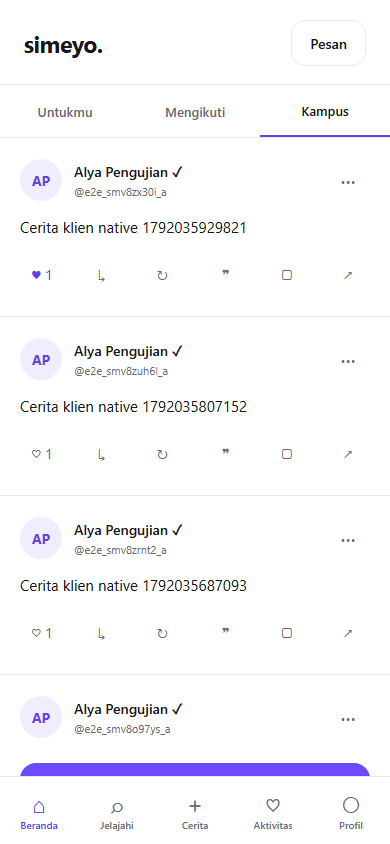
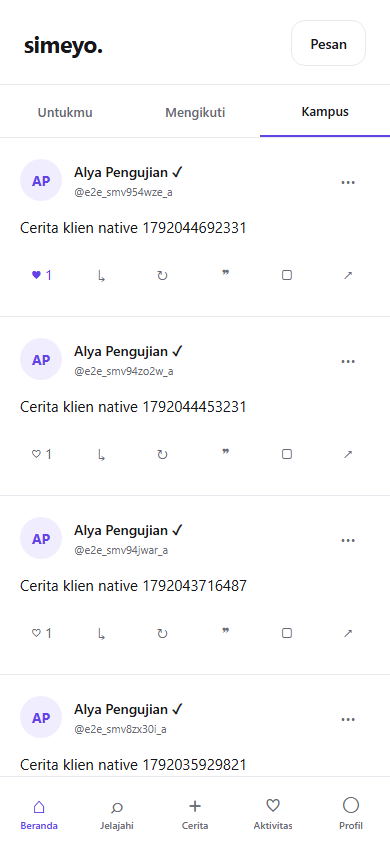
Record Android APK and private mobile messaging acceptance

diff --git a/apps/web/mobile-tests/native-client.spec.ts b/apps/web/mobile-tests/native-client.spec.ts
@@ -6,8 +6,8 @@ const root=path.resolve(__dirname,'../../..');
 const password=readFileSync(path.join(root,'apps/api/.env'),'utf8').match(/^DEMO_PASSWORD=(.+)$/m)?.[1].trim();
 function fixture(){return JSON.parse(execFileSync('php',['-d','extension=pdo_pgsql',path.join(root,'infrastructure/scripts/e2e-social-fixture.php'),Date.now().toString(36)],{cwd:root,encoding:'utf8'}));}
 async function login(page:Page,email:string){await page.goto('/login');await page.getByLabel('Email',{exact:true}).fill(email);await page.getByLabel('Kata sandi',{exact:true}).fill(password!);await page.getByRole('button',{name:'Masuk',exact:true}).click();await expect(page.getByRole('tab',{name:'Beranda',exact:true})).toBeVisible();}
-test('Expo components use scoped API tokens for persisted posts, profiles and theme',async({page,browser})=>{
- const users=fixture();const failures:string[]=[];page.on('pageerror',error=>failures.push(error.message));
+test('Expo components persist posts, profiles and messages with private realtime and theme',async({page,browser})=>{
+ const users=fixture();const failures:string[]=[];const frames:string[]=[];page.on('pageerror',error=>failures.push(error.message));page.on('websocket',socket=>socket.on('framereceived',event=>frames.push(String(event.payload))));
  await login(page,users.a.email);
  await page.getByRole('tab',{name:'Cerita',exact:true}).click();const body=`Cerita klien native ${Date.now()}`;await page.getByLabel('Tulis cerita',{exact:true}).fill(body);
  const posted=page.waitForResponse(r=>r.url().endsWith('/api/v1/posts')&&r.request().method()==='POST'&&r.status()===201);await page.getByRole('button',{name:'Bagikan',exact:true}).click();const response=await posted;const post=(await response.json()).data;
@@ -15,10 +15,13 @@ test('Expo components use scoped API tokens for persisted posts, profiles and th
  const card=page.getByTestId(`post-${post.id}`);const liked=page.waitForResponse(r=>r.url().endsWith(`/posts/${post.id}/interactions/like`)&&r.request().method()==='PUT'&&r.status()===200);await card.getByRole('button',{name:'Sukai cerita',exact:true}).click();expect((await (await liked).json()).data.liked).toBe(true);await expect(card.getByRole('button',{name:'Sukai cerita',exact:true})).toContainText('♥ 1');
  await page.screenshot({path:path.join(root,'docs/testing/screenshots/native-feed-mobile.png'),fullPage:true});
  await page.getByRole('tab',{name:'Profil',exact:true}).click();await page.getByRole('button',{name:'Ubah profil',exact:true}).click();const bio=`Bio native ${Date.now()}`;await page.getByLabel('Bio',{exact:true}).fill(bio);const saved=page.waitForResponse(r=>r.url().endsWith('/api/v1/me')&&r.request().method()==='PATCH'&&r.status()===200);await page.getByRole('button',{name:'Simpan profil',exact:true}).click();await saved;await expect(page.getByText(bio,{exact:true})).toBeVisible();
- await page.getByRole('button',{name:'Pengaturan',exact:true}).click();await page.getByRole('radio',{name:'Gelap',exact:true}).click();await page.screenshot({path:path.join(root,'docs/testing/screenshots/native-settings-dark.png'),fullPage:true});
+ await page.getByRole('button',{name:'Pengaturan',exact:true}).click();await page.getByRole('radio',{name:'Gelap',exact:true}).click();await expect(page.getByRole('radio',{name:/Anggota kampus/})).toBeVisible();const preference=page.waitForResponse(r=>r.url().endsWith('/communication-preferences')&&r.request().method()==='PATCH'&&r.status()===200);await page.getByRole('radio',{name:/Anggota kampus/}).click();await preference;await page.screenshot({path:path.join(root,'docs/testing/screenshots/native-settings-dark.png'),fullPage:true});
  const observer=await browser.newContext({viewport:{width:390,height:844}});const second=await observer.newPage();await login(second,users.b.email);
- await second.getByRole('tab',{name:'Jelajahi',exact:true}).click();await second.getByRole('button',{name:'Temukan teman',exact:true}).click();await second.getByLabel('Cari nama atau username',{exact:true}).fill(users.a.username);await second.getByRole('button',{name:'Cari pengguna',exact:true}).click();await second.getByRole('link',{name:`Profil @${users.a.username}`,exact:true}).click();await expect(second.getByText(bio,{exact:true})).toBeVisible();
+ await second.getByRole('tab',{name:'Jelajahi',exact:true}).click();await second.getByRole('button',{name:'Temukan teman',exact:true}).click();await second.getByLabel('Cari nama atau username',{exact:true}).fill(users.a.username);const searchResult=second.waitForResponse(r=>new URL(r.url()).pathname.endsWith('/people')&&new URL(r.url()).searchParams.get('q')===users.a.username);await second.getByRole('button',{name:'Cari pengguna',exact:true}).click();const found=await searchResult;expect(found.status()).toBe(200);expect((await found.json()).data.some((user:{username:string})=>user.username===users.a.username)).toBe(true);await second.getByRole('link',{name:`Profil @${users.a.username}`,exact:true}).click();await expect(second.getByText(bio,{exact:true})).toBeVisible();
  const authorization=response.request().headers()['authorization'];expect(authorization).toMatch(/^Bearer /);
  const durable=await second.request.get(`http://localhost:8000/api/v1/posts/${post.id}`,{headers:{Authorization:authorization}});expect(durable.status()).toBe(200);expect((await durable.json()).data.body).toBe(body);
+ await second.getByRole('button',{name:'Pesan',exact:true}).click();const message=`Pesan native tersimpan ${Date.now()}`;await second.getByLabel('Tulis pesan',{exact:true}).fill(message);const sent=second.waitForResponse(r=>/\/conversations\/\d+\/messages$/.test(r.url())&&r.request().method()==='POST'&&r.status()===201);await second.getByRole('button',{name:'Kirim pesan',exact:true}).click();await sent;await expect(second.getByText(message,{exact:true})).toBeVisible();
+ await expect.poll(()=>frames.some(raw=>raw.includes('activity.changed')),{timeout:30000}).toBe(true);const event=frames.map(raw=>JSON.parse(raw)).find(packet=>packet.event==='activity.changed');expect(typeof event.data==='string'?JSON.parse(event.data):event.data).toEqual({refresh:true});expect(JSON.stringify(event)).not.toContain(message);
+ await page.getByRole('link',{name:'(tabs), back',exact:true}).click();await page.getByRole('tab',{name:'Beranda',exact:true}).click();await page.getByRole('button',{name:'Pesan',exact:true}).click();await page.getByText('Bima Pengujian',{exact:true}).click();await expect(page.getByText(message,{exact:true})).toBeVisible();const read=page.waitForResponse(r=>/\/conversations\/\d+\/read$/.test(r.url())&&r.request().method()==='PUT'&&r.status()===204);await page.getByRole('button',{name:'Tandai dibaca',exact:true}).click();await read;await page.screenshot({path:path.join(root,'docs/testing/screenshots/native-messages-mobile.png'),fullPage:true});
  expect(failures).toEqual([]);await observer.close();
 });

diff --git a/PROGRESS.md b/PROGRESS.md
@@ -38,8 +38,8 @@ Campus approval, institution boundaries, private audiences/community membership,
 - Native local PostgreSQL, Laravel, Reverb and queue-worker round trips were tested. Portable Compose v5.6.0 validates all profiles, but Docker Engine pipe is absent. Container startup, Redis, MinIO and Meilisearch runtime remain BELUM DIUJI.
 - Web runtime-only npm audit reported zero advisories. Full web audit retains five high development-tooling entries in an upstream unpatched braces chain.
 - Expo-compatible updates and tested decoder/UUID overrides reduced mobile findings from 28 to 18 high entries. Remaining braces/node-forge tooling chains have no compatible published fix at last check. Do not downgrade SDK or report the audit clean.
-- Composer audit reported no advisories from cached metadata after live Packagist refresh timed out; this is not a fresh online audit.
-- Android SDK/JDK/adb were not detected. Expo Android prebuild passed; generated manifest/app ID/scheme checked. Gradle failed because JAVA_HOME/java are absent. No APK, installed Android app, iOS build, physical-device secure storage or push delivery acceptance yet. No cloud build/store submission.
+- An earlier Composer refresh timed out and used cached metadata. Latest `composer audit --locked` and `--locked --no-dev` both completed successfully with no advisories/abandoned packages and no fallback warning.
+- Android SDK/JDK/adb were not detected. Expo Android prebuild passed; generated manifest/app ID/scheme checked. Gradle failed because JAVA_HOME/java are absent. A later GitHub development APK build passed (see continuation evidence); installed Android/iOS, physical-device secure storage and push delivery acceptance remain pending. No EAS build/store submission.
 - Production SMTP, production object storage, real-device credentials, sustained load, media/key restore, monitoring and operator deployment acceptance remain release work. Isolated CI now verifies HTTPS/FPM/standalone, supervised workers and database restore; see the continuation evidence below.
 - New app IDs are `app.simeyo.mobile`, URI scheme `simeyo`, slug `simeyo`. Never rename/drop the existing PostgreSQL database or regenerate application keys to change branding.
 
@@ -54,11 +54,13 @@ Expo browser acceptance and repeat production PWA acceptance passed; actual nati
 - PostgreSQL recovery scripts now refuse backup overwrite, source/nonempty restore targets and corrupt archives. The isolated CI drill restored fictional application user/profile/Unicode data and migration history. Evidence: https://github.com/mhmdhabibrafi/simeyo/actions/runs/38688458732. No existing local/production database was reset.
 - Separate `docker-compose.production.yml` and release images implement PHP-FPM/OPcache, Next standalone, HTTPS Nginx, worker, Reverb and a private media volume. CI built and started them and verified TLS trust, database health, CSRF rejection, Secure/HttpOnly session cookies, login/logout, private headers, feed and public realtime configuration: https://github.com/mhmdhabibrafi/simeyo/actions/runs/38689026253. This does not verify Redis/MinIO/Meilisearch or a real public deployment.
 - Bounded HTTP samples: Windows local API 80 requests / 0 failed / 53.08 seconds; isolated HTTPS/FPM CI 80 requests / 0 failed / 1.62 seconds / endpoint p95 179–314 ms. Both used concurrency four and revoked only their newly created token. Datasets differ; neither is sustained production capacity acceptance. Actual JSON is in `docs/testing/results`; source CI run: https://github.com/mhmdhabibrafi/simeyo/actions/runs/38689917319.
-- Native activity now ignores cleaned-up/retained push responses and keeps stale WebSocket authorization/errors on their original connection. Privacy errors hide cached profiles, blocking clears queries and optimistic actions cancel competing feed/detail/Pulse refetches. Mobile type/lint and seven unit/dependency tests passed. Basic Expo browser regression passed again (1 test / 1.4 minutes); extended direct-message/realtime acceptance is currently being exercised.
+- Native activity now ignores cleaned-up/retained push responses and keeps stale WebSocket authorization/errors on their original connection. Privacy errors hide cached profiles, blocking clears queries and optimistic actions cancel competing feed/detail/Pulse refetches. Mobile type/lint and seven unit/dependency tests passed. Basic Expo browser regression passed again (1 test / 1.4 minutes); extended direct-message/realtime acceptance also passed (1 test / 1.5 minutes), proving persisted send/receive/read and private invalidation-only WebSocket frames. The new message screenshot was inspected.
 - Added `2026_10_15_320000_index_push_delivery`: owner-device, notification/device receipt and device-revocation lookup indexes. Applied additively to project-local PostgreSQL after validating the target; full SQLite and PostgreSQL regressions passed again (61 tests / 406 assertions), Pint passed. No representative large-dataset query-plan benchmark is claimed.
 - Fresh npm audit: web runtime 0; full web 5 high; mobile 18 high. Registry latest braces 3.0.3 and node-forge 1.4.0. Upstream compatibility/security gates remain unresolved.
 - OpenAPI now documents native-only push device operations, post retry/community fields, notification UUIDs and the actual default Simeyo session cookie. Explicit SESSION_COOKIE may override that name.
-- Android compilation is being attempted on a disposable GitHub runner with Java/Android tools; no local SDK installation or EAS/store submission. Workflow: https://github.com/mhmdhabibrafi/simeyo/actions/runs/38689605244. At this checkpoint no APK result or device behavior is claimed. The build uses a development signature/client and emulator loopback endpoints; it is not a production/store artifact.
+- Android development APK compilation passed on a disposable GitHub runner with Java/Android tools (ARM64 and x86_64); no local SDK installation or EAS/store submission. Workflow: https://github.com/mhmdhabibrafi/simeyo/actions/runs/38689605244. The APK artifact was downloaded and its binary manifest/package string, DEX and ARM64/x86_64 libraries inspected. SHA-256 and size are recorded in MOBILE.md. Installed-device behavior is not claimed. The build uses a development signature/client and emulator loopback endpoints; it is not a production/store artifact.
 - Local database, production web, production-config PHP HTTP server, queue worker and Reverb were relaunched as hidden background processes. User URL remains http://localhost:3000. Local API HTTP serving still uses PHP's test server; the FPM/TLS topology ran only in isolated CI. Existing demo credentials and data were preserved.
 
-Resume: finish extended Expo messaging/realtime acceptance and inspect its new screenshot; collect the Android job result and artifact if successful. Push the new migration/evidence and refresh CI. Keep production readiness open until upstream advisories, actual devices/push, media/key restore, sustained load and operator deployment gates have evidence.
+Resume: extended Expo messaging/realtime acceptance passed and its screenshot was inspected. The Android artifact is available at .local/Simeyo-development.apk; its checksum is recorded in MOBILE.md. CI including the new index migration and 12-migration recovery drill passed: https://github.com/mhmdhabibrafi/simeyo/actions/runs/38691059765. Keep production readiness open until upstream advisories, actual devices/push, media/key restore, sustained load and operator deployment gates have evidence.
+
+Latest runtime check: HTTP health succeeded through both localhost:3000 and the added IPv4 API listener 127.0.0.1:8000. Root dev:api now binds IPv4 for Android emulator access. Native messaging/realtime browser acceptance passed (1 test / 1.5 minutes). No physical device or store release is claimed.

diff --git a/MOBILE.md b/MOBILE.md
@@ -16,8 +16,8 @@ The existing Next.js/Laravel platform is preserved. `apps/mobile` adds a separat
 - Production PWA browser test **passed**: real service worker, parsed manifest, authenticated private API/no-store checks, cache inventory, offline navigation without identity data and reconnect. Screenshot: `docs/testing/screenshots/pwa-offline.png`.
 - Expo Doctor: **21/21 checks passed**. Seven pure client/dependency tests passed for origin/header/session isolation, push targets, patched URI decoding and xcode UUID compatibility.
 - Push API tests passed with **mocked provider HTTP**. They prove validation, encrypted storage, revocation, generic payloads, permission rechecks and receipt cleanup; they do not prove FCM/APNs or physical-device delivery.
-- Native TypeScript/lint passed. Expo component browser acceptance passed for token login, post/like persistence, profile edits visible to another account and dark theme. Android prebuild passed and its Simeyo app name, package and URI scheme were inspected. All-platform Metro exports passed again after the rename and browser fixes; compilation is not an APK, an installed app or a physical-device test.
-- Android SDK/JDK/adb are not currently detected; the generated Gradle wrapper failed because JAVA_HOME/java are absent. No APK or iOS build has been produced. iOS builds require an appropriate macOS/Xcode or configured build service. An Android development-client build is running in disposable GitHub CI; no EAS build, store submission or public deployment was performed.
+- Native TypeScript/lint passed. Expo component browser acceptance passed for token login, post/like persistence, profile edits visible to another account, dark theme, sending/receiving/reading messages and actual private Reverb invalidation-only delivery. Android prebuild passed and its Simeyo app name, package and URI scheme were inspected. All-platform Metro exports passed again after the rename and browser fixes; Metro export is separate from the later APK build and does not establish installed-device behavior.
+- Android SDK/JDK/adb are not currently detected; the generated Gradle wrapper failed because JAVA_HOME/java are absent. The GitHub Android development build passed and produced an ARM64/x86_64 debug APK. No iOS build or installed-device test has been produced. iOS builds require an appropriate macOS/Xcode or configured build service. The Android development-client build ran successfully in disposable GitHub CI; no EAS build, store submission or public deployment was performed.
 - FCM/APNs/Expo project credentials and physical-device push delivery remain **BELUM DIUJI**. Configure the real project ID and provider credentials before enabling `EXPO_PUSH_ENABLED`.
 
 ## Local commands
@@ -40,3 +40,9 @@ SDK-compatible installation initially reported 28 npm advisory entries. Verified
 Current mobile audit: **18 high entries** through the unpatched braces/node-forge toolchain chains. Do not interpret Expo Doctor as a vulnerability audit. This remains a production gate, alongside the separate five web development-tooling advisory entries. See the upstream [URI decoder advisory](https://github.com/advisories/GHSA-vcc3-ghjq-m6fr), [UUID advisory](https://github.com/advisories/GHSA-w5hq-g745-h8pq), [braces advisory](https://github.com/advisories/GHSA-vfj7-8cjw-p6xm) and [node-forge advisory](https://github.com/advisories/GHSA-86w9-cpqp-85rv).
 
 Implementation follows the [SDK 57 reference](https://docs.expo.dev/versions/v57.0.0/), [native tabs guidance](https://docs.expo.dev/router/advanced/native-tabs/) and [push setup requirements](https://docs.expo.dev/push-notifications/push-notifications-setup/).
+
+## Android development artifact
+
[1 lines of base64/hex data omitted]
+
+It uses generated development signing and the Expo development client; it requires Metro and a reachable local API. It is not a standalone production/store release, and FCM/APNs credentials are not configured. On an Android emulator, `10.0.2.2` reaches the host's IPv4 loopback; `dev:api` now binds `127.0.0.1` explicitly. The optional registration/recovery web origin must also be reachable from the emulator. A physical phone needs explicitly configured reachable API/web origins. Public hosting, store signing and device installation were not performed.

diff --git a/docs/security/release-review-2026-10-15.md b/docs/security/release-review-2026-10-15.md
@@ -15,14 +15,14 @@ This is an engineering review with recorded tests, not a completed production ce
 
 Fresh npm registry checks: **web production dependencies: zero advisory entries**; full web graph: **five high**; mobile graph: **18 high**, with no critical entries in these reports. Published `braces` remains 3.0.3 and `node-forge` remains 1.4.0. The compatible decoder/UUID overrides and their regression tests remain in place. No forced framework downgrade or advisory suppression was applied. See [dependency review](dependencies-2026-10-15.md) and [MOBILE.md](../../MOBILE.md).
 
-These development/build-tooling advisories remain a release gate. A clean runtime-only web report does not establish a clean mobile graph, image scan or complete application security audit. Composer's earlier audit used cached metadata after a live refresh timeout; a fully fresh Composer/image audit is still required.
+These development/build-tooling advisories remain a release gate. A clean runtime-only web report does not establish a clean mobile graph, image scan or complete application security audit. Composer's earlier audit used cached metadata after a live refresh timeout. Latest full locked and no-dev locked audit commands both completed with no advisories or abandoned packages and no fallback warning. Image vulnerability scanning remains required.
 
 ## Open release gates
 
 | Gate | Status / required evidence |
 |---|---|
 | Dependency remediation | Five web and 18 mobile high entries remain; recheck compatible upstream patches before release. |
-| Native Android/iOS and push | Android development APK build is being attempted in CI. No physical-device session/media/push acceptance, store signing or iOS installed-build acceptance. |
+| Native Android/iOS and push | Android development APK compilation passed in CI. No physical-device session/media/push acceptance, store signing or iOS installed-build acceptance. |
 | Provider operations | Real SMTP, Expo/FCM/APNs credentials and push delivery are not verified. Push stays disabled by default. |
 | Full disaster recovery | Production media, encryption keys, retention, off-host copies, recovery-point/time objectives and operator cutover are not exercised. |
 | Sustained performance | The 80-request samples are bounded baselines, not representative staging load or capacity acceptance. |

diff --git a/CHANGELOG.md b/CHANGELOG.md
@@ -6,7 +6,11 @@
 - Add a privacy-preserving PWA and Expo native client with scoped authentication, feeds, composer, profiles, activity, messaging, themes and guarded push registration.
 - Add encrypted push-device registration, queued generic notifications/receipt checks and idempotent post retry identities. Push provider tests use mocked HTTP; physical delivery remains untested.
 - API regression after these additions: **61 tests / 406 assertions passed** on SQLite and isolated PostgreSQL. Expo Android/iOS/web bundles exported successfully; compilation does not prove installed-device behavior.
-- PWA production-browser acceptance passed after the rename; Expo component browser acceptance also passed. Docker runtime, native builds and production readiness remain pending.
+- PWA production-browser acceptance passed after the rename; Expo component browser acceptance also passed. Isolated HTTPS/FPM/standalone Docker smoke acceptance now passes; local supporting Docker services and production readiness remain pending.
+
+- Add guarded PostgreSQL archive backup/restore with actual isolated recovery acceptance, bounded API samples and separate HTTPS/FPM/standalone release configuration.
+- Harden native notification/WebSocket/account-cache lifecycle; add push lookup indexes and native push/retry API contracts.
+- Android development APK compilation passed in GitHub CI; extended Expo browser acceptance includes messaging and private realtime. Installed-device/push/store acceptance remains pending.
 
 ## 0.3.0 — 2026-10-15 — Campus experience, locally verified
 
